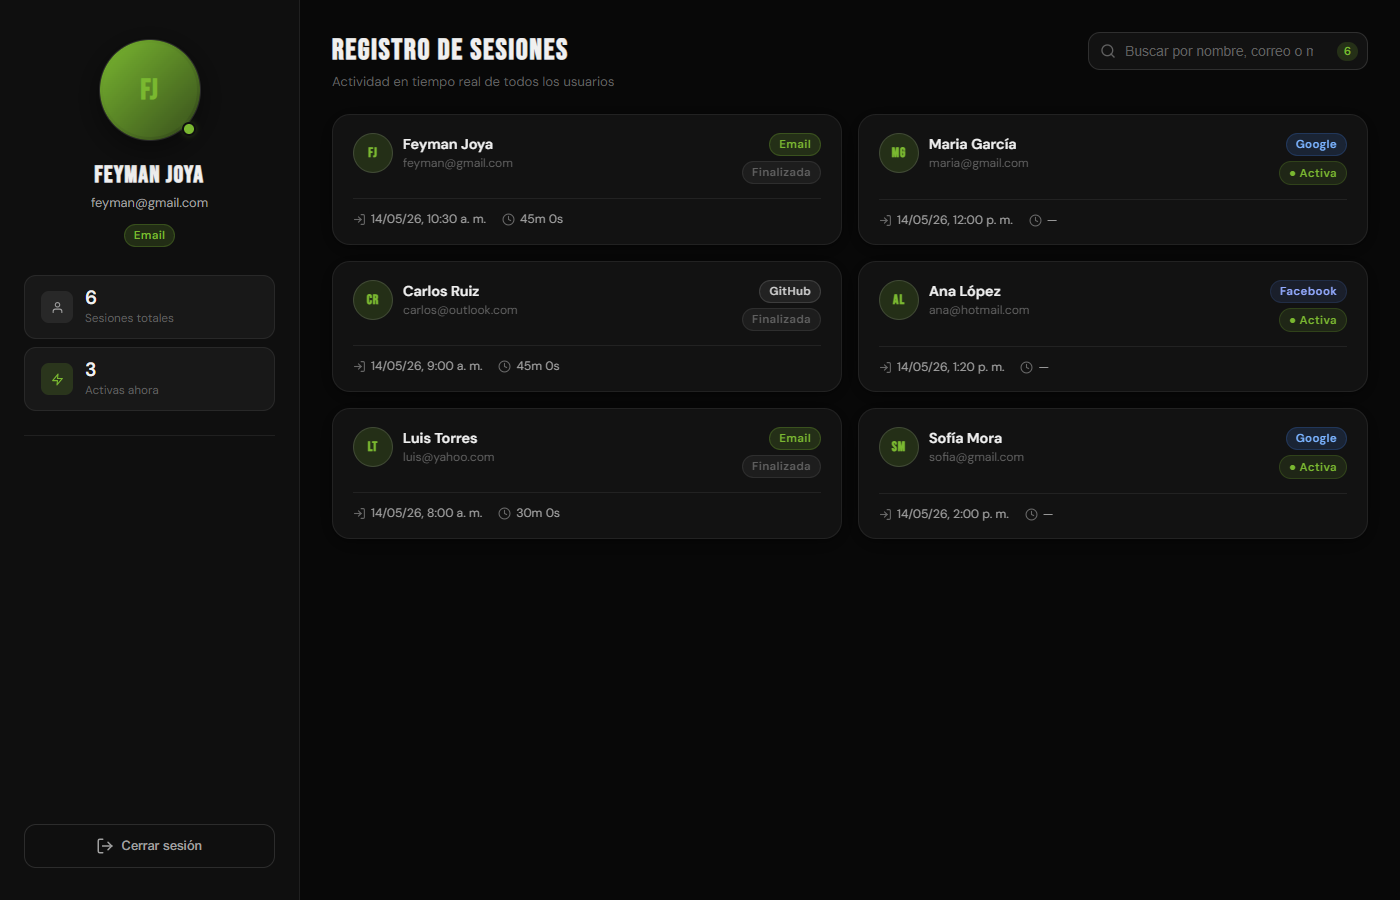
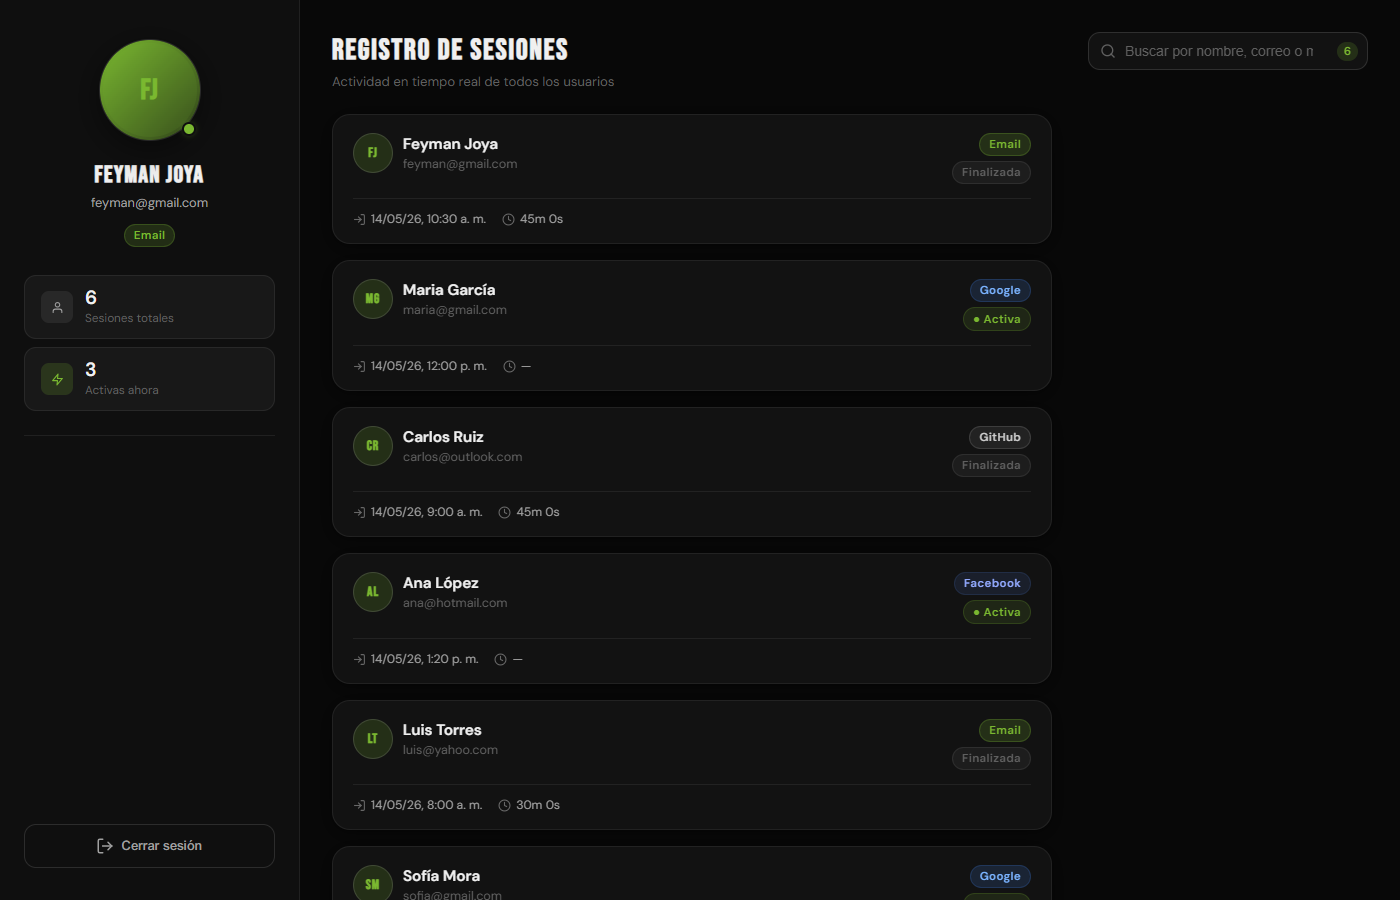
style(dashboard): stack session cards vertically in single column
- .db-cards-grid: switch to grid-template-columns: 1fr with max-width 720px
  so all cards align one below the other instead of in a multi-column grid
- Loosen .session-card-name / .session-card-email max-width from 160px to
  100% to fit the wider single-column layout
- Regenerate docs/img/dashboard-new.png with the new layout

Session recording already covers all auth methods (email, Google,
Facebook, GitHub) via startSession() in LoginPage and RegisterPage.

diff --git a/src/pages/dashboard.css b/src/pages/dashboard.css
@@ -306,8 +306,9 @@
 
 .db-cards-grid {
   display: grid;
-  grid-template-columns: repeat(auto-fill, minmax(340px, 1fr));
+  grid-template-columns: 1fr;
   gap: 16px;
+  max-width: 720px;
 }
 
 /* ── Session Card ────────────────────────────────────────── */
@@ -364,23 +365,23 @@
 }
 
 .session-card-name {
-  font-size: 0.9rem;
+  font-size: 0.95rem;
   font-weight: 600;
   color: var(--text-primary);
   margin: 0 0 2px;
   white-space: nowrap;
   overflow: hidden;
   text-overflow: ellipsis;
-  max-width: 160px;
+  max-width: 100%;
 }
 .session-card-email {
-  font-size: 0.75rem;
+  font-size: 0.78rem;
   color: var(--text-muted);
   margin: 0;
   white-space: nowrap;
   overflow: hidden;
   text-overflow: ellipsis;
-  max-width: 160px;
+  max-width: 100%;
 }
 
 .session-card-badges {
